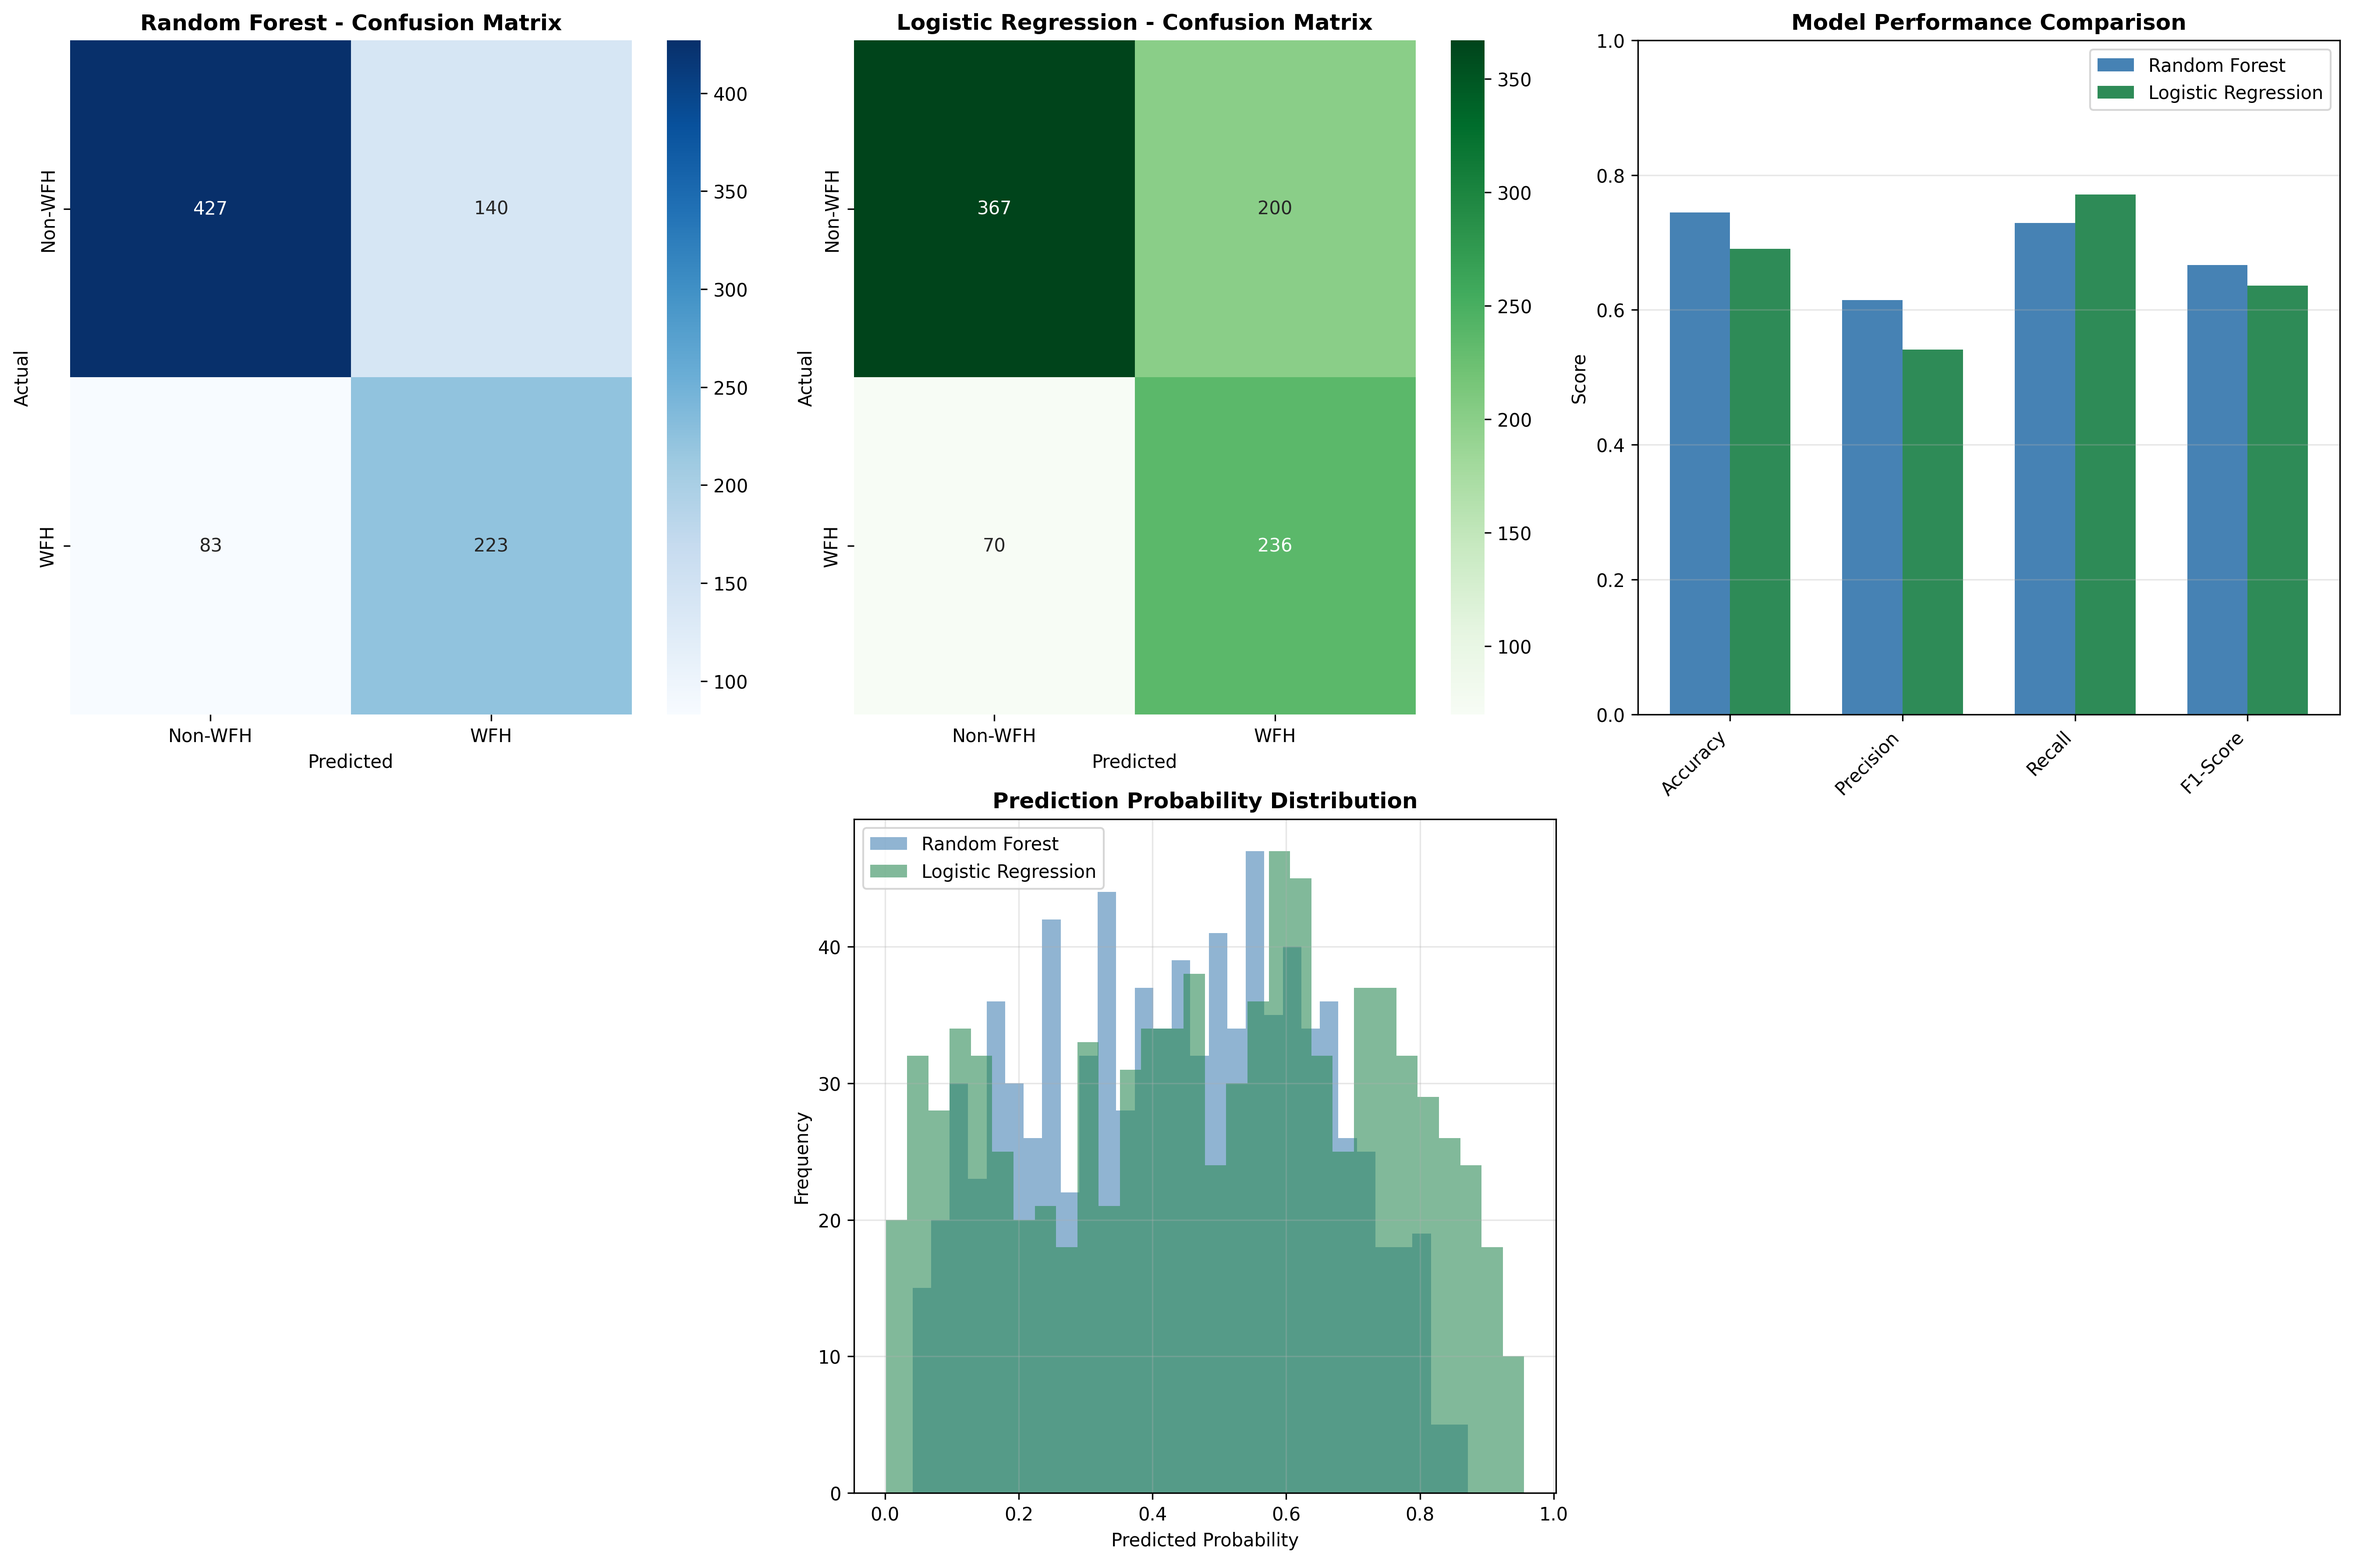
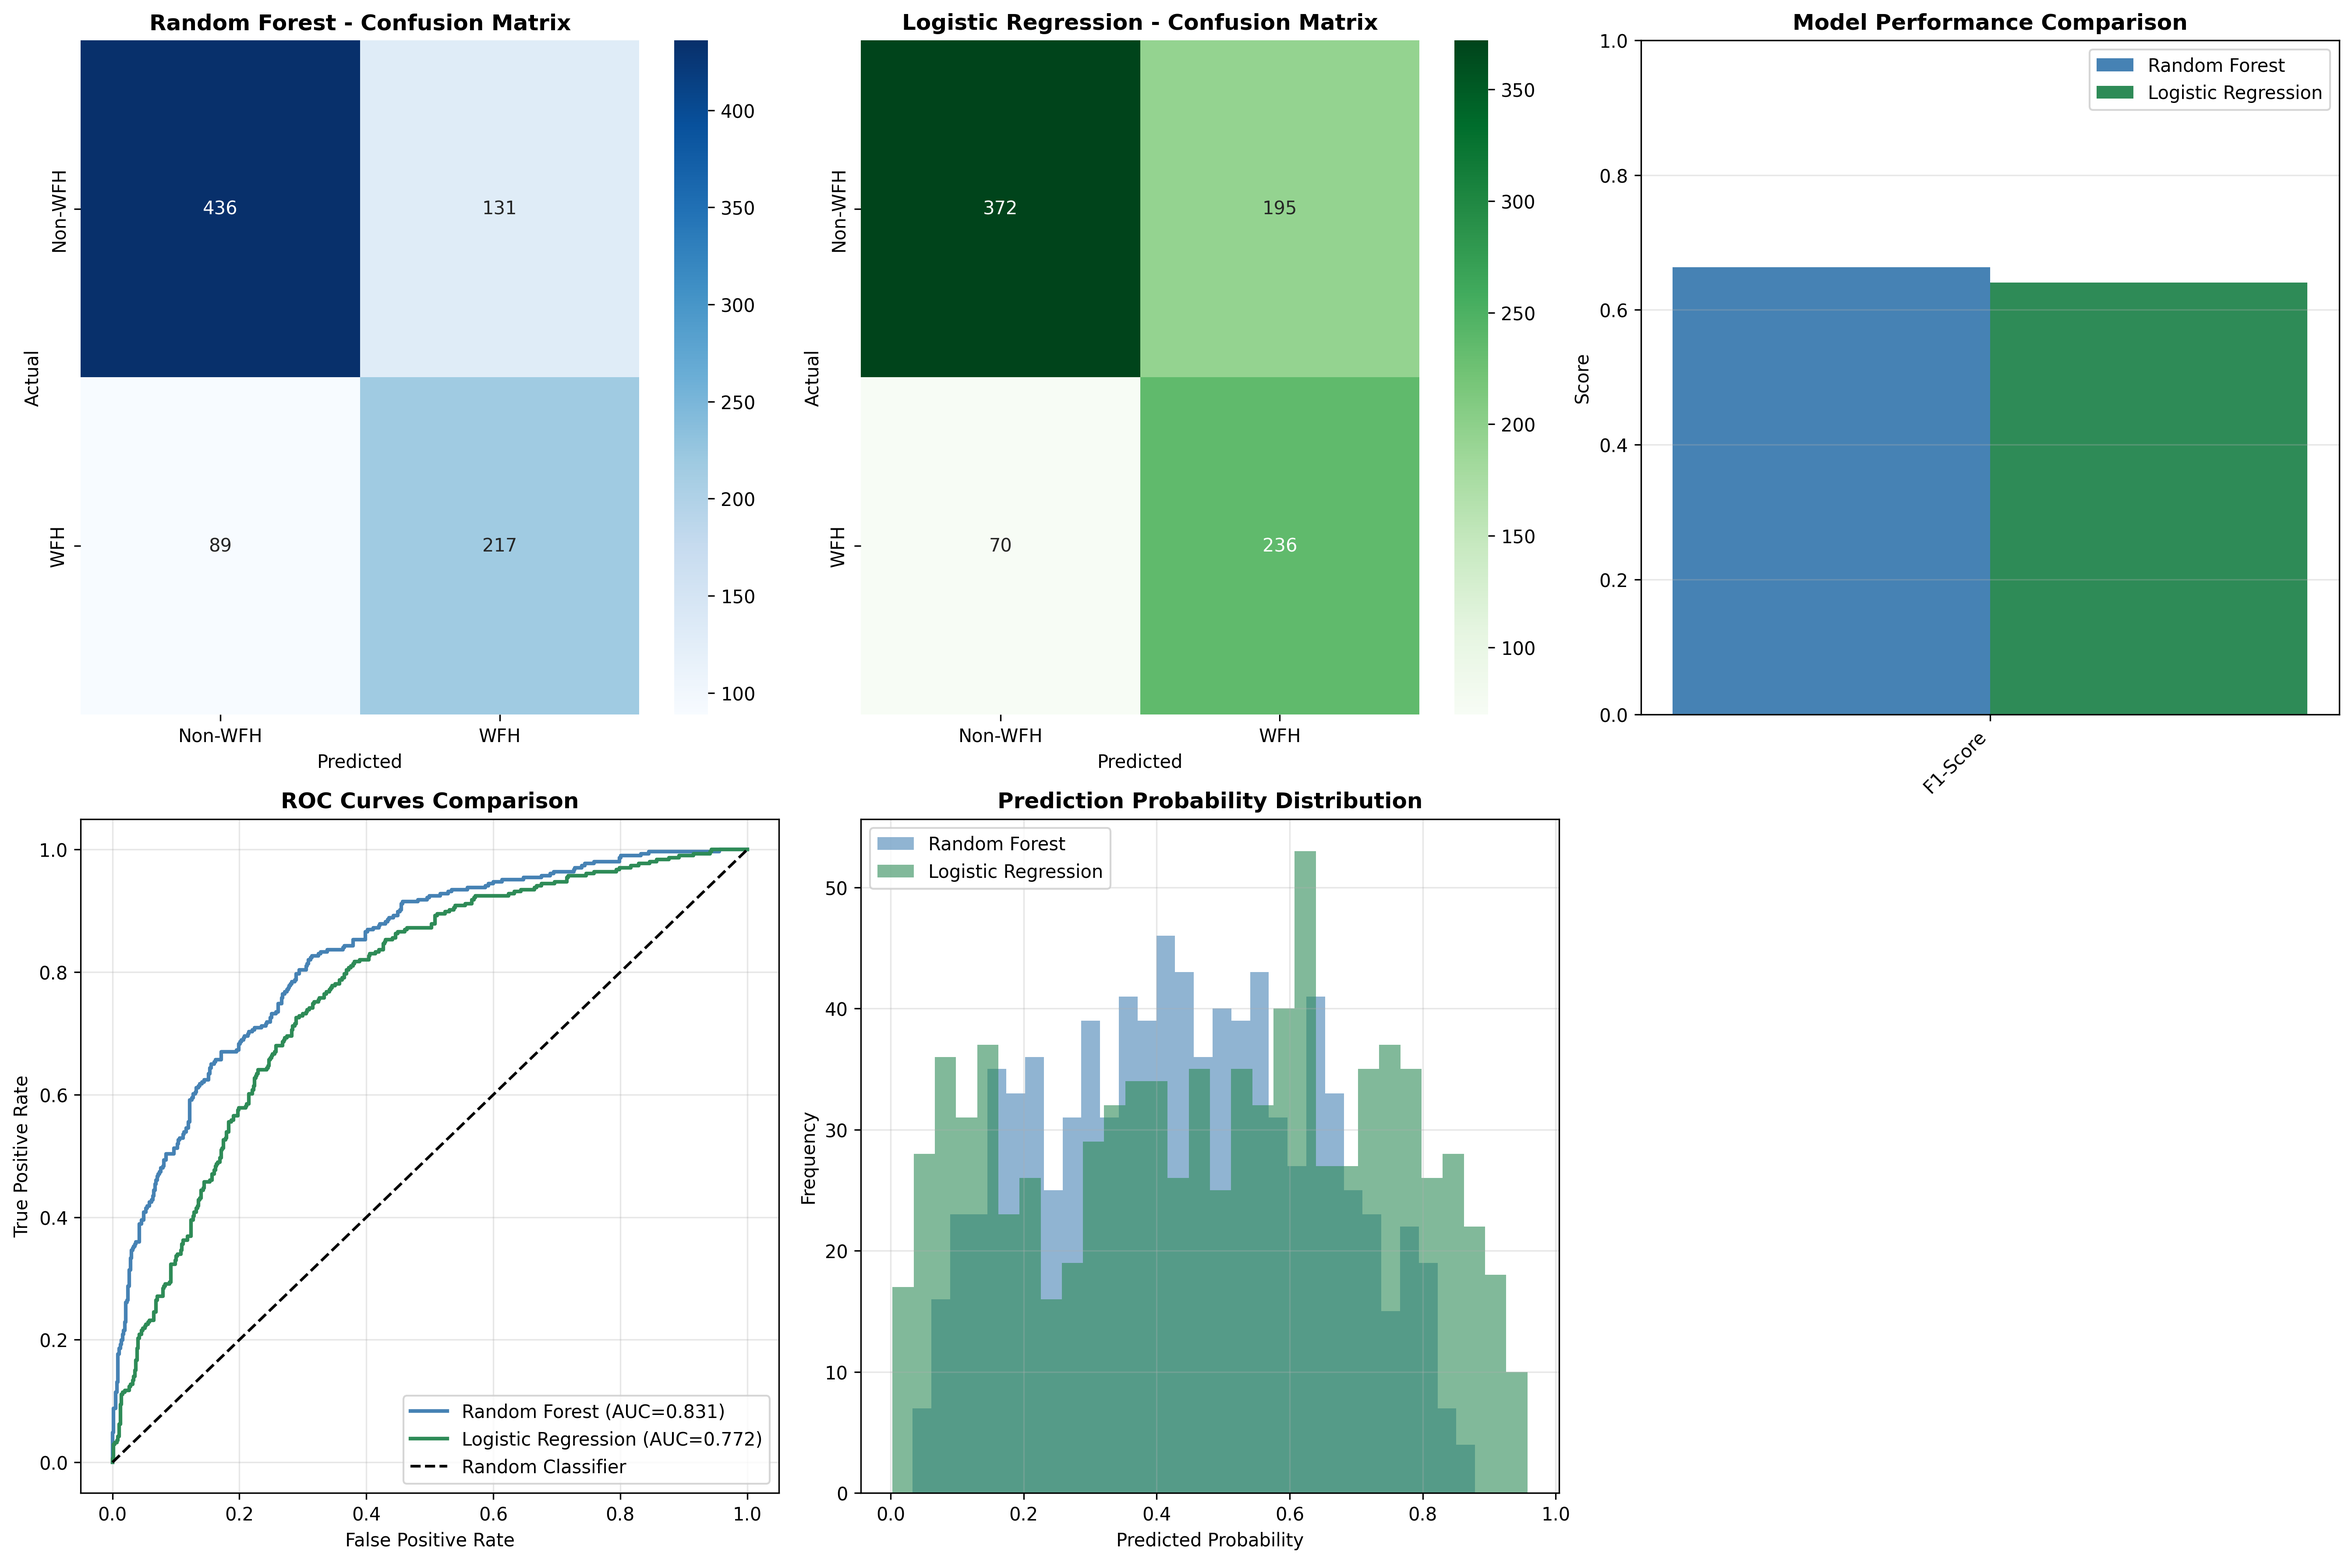
evaluation metrics selection

diff --git a/03_supervised_learning/scripts/wfh_prediction.py b/03_supervised_learning/scripts/wfh_prediction.py
@@ -19,8 +19,7 @@ from sklearn.ensemble import RandomForestClassifier
 from sklearn.linear_model import LogisticRegression
 from sklearn.preprocessing import StandardScaler, LabelEncoder
 from sklearn.metrics import (
-    confusion_matrix, classification_report, accuracy_score,
-    precision_score, recall_score, f1_score, roc_auc_score, roc_curve
+    confusion_matrix, classification_report, f1_score, roc_auc_score, roc_curve
 )
 import os
 
@@ -86,7 +85,7 @@ def create_wfh_target(person_df):
         # Use 'anywfh' as the primary target (indicates if person works from home at all)
         person_df['wfh'] = person_df['anywfh'].copy()
         
-        # Convert to binary if needed (handle different encodings)
+        # Convert to binary 
         # Encodings: Yes/No, 1/0
         if person_df['wfh'].dtype == 'object':
             # String values like 'Yes'/'No'
@@ -96,7 +95,6 @@ def create_wfh_target(person_df):
         
         # Ensure binary (0 or 1)
         person_df['wfh'] = (person_df['wfh'] > 0).astype(int)
-        
         print(f"\nUsing 'anywfh' as target variable")
         
     elif 'wfhtravday' in person_df.columns:
@@ -150,9 +148,16 @@ def prepare_features(household_df, person_df, journey_df, morning_df):
     # Start with person-level data
     df = person_df.copy()
     
-    # Identify ID columns
-    household_id_cols = ["hhid"]
-    person_id_cols = ["persid"]
+    # Identify common key columns for merging
+    # Common possibilities: 'household_id', 'person_id', 'hhid', 'persid', etc.
+    print("\nAttempting to merge datasets...")
+    
+    # Try to identify ID columns
+    household_id_cols = [col for col in household_df.columns if 'household' in col.lower() or 'hh' in col.lower()]
+    person_id_cols = [col for col in person_df.columns if 'person' in col.lower() or 'pers' in col.lower()]
+    
+    print(f"Potential household ID columns: {household_id_cols}")
+    print(f"Potential person ID columns: {person_id_cols}")
     
     # Merge with household data (adjust key names as needed)
     if household_id_cols:
@@ -161,7 +166,7 @@ def prepare_features(household_df, person_df, journey_df, morning_df):
             key_col = household_id_cols[0]
             if key_col in df.columns and key_col in household_df.columns:
                 df = df.merge(household_df, on=key_col, how='left', suffixes=('', '_hh'))
-                print(f"Merged household data on '{key_col}'")
+                print(f"✓ Merged household data on '{key_col}'")
         except Exception as e:
             print(f"Could not merge household data: {e}")
     
@@ -183,7 +188,7 @@ def prepare_features(household_df, person_df, journey_df, morning_df):
                     avg_distance.columns = [person_key, 'avg_trip_distance']
                     df = df.merge(avg_distance, on=person_key, how='left')
                     df['avg_trip_distance'] = df['avg_trip_distance'].fillna(0)
-                    print(f"Added average trip distance feature")
+                    print(f"✓ Added average trip distance feature")
         except Exception as e:
             print(f"Could not process journey data: {e}")
     
@@ -208,8 +213,8 @@ def select_features(df):
     # Separate features and target
     target = 'wfh'
     
-    # Exclude non-feature columns (IDs, dates, target)
-    exclude_keywords = ['id', 'date', 'time', 'name', target]
+    # Exclude non-feature columns 
+    exclude_keywords = ['id', target]
     
     feature_cols = [col for col in df.columns 
                    if col != target 
@@ -242,12 +247,21 @@ def select_features(df):
     print("\nEncoding categorical variables...")
     label_encoders = {}
     for col in categorical_features:
-        le = LabelEncoder()
-        df_clean[col] = le.fit_transform(df_clean[col].astype(str))
-        label_encoders[col] = le
+        try:
+            le = LabelEncoder()
+            df_clean[col] = le.fit_transform(df_clean[col].astype(str))
+            label_encoders[col] = le
+        except Exception as e:
+            print(f"Could not encode column '{col}': {e}")
+            # Drop problematic column
+            df_clean = df_clean.drop(columns=[col])
     
     # Remove any remaining rows with missing target
     df_clean = df_clean.dropna(subset=[target])
+    
+    # Check if we have enough data
+    if len(df_clean) < 100:
+        raise ValueError(f"Not enough data after cleaning: {len(df_clean)} rows. Need at least 100.")
     
     print(f"\nFinal dataset shape after cleaning: {df_clean.shape}")
     print(f"WFH distribution:")
@@ -373,9 +387,6 @@ def evaluate_model(model, X_test, y_test, model_name):
     y_pred_proba = model.predict_proba(X_test)[:, 1]
     
     cm = confusion_matrix(y_test, y_pred)
-    accuracy = accuracy_score(y_test, y_pred)
-    precision = precision_score(y_test, y_pred, zero_division=0)
-    recall = recall_score(y_test, y_pred, zero_division=0)
     f1 = f1_score(y_test, y_pred, zero_division=0)
     roc_auc = roc_auc_score(y_test, y_pred_proba)
    
@@ -387,9 +398,6 @@ def evaluate_model(model, X_test, y_test, model_name):
     print(f"   True Positives:  {cm[1,1]}")
     
     print("\n2. CLASSIFICATION METRICS:")
-    print(f"   Accuracy:  {accuracy:.4f}")
-    print(f"   Precision: {precision:.4f}")
-    print(f"   Recall:    {recall:.4f}")
     print(f"   F1-Score:  {f1:.4f}")
     print(f"   ROC-AUC:   {roc_auc:.4f}")
     
@@ -398,9 +406,6 @@ def evaluate_model(model, X_test, y_test, model_name):
     
     return {
         'confusion_matrix': cm,
-        'accuracy': accuracy,
-        'precision': precision,
-        'recall': recall,
         'f1_score': f1,
         'roc_auc': roc_auc,
         'y_pred': y_pred,
@@ -421,7 +426,6 @@ def get_output_directory():
     possible_outputs = [
         '03_supervised_learning/outputs/',  # From project root
         'outputs/',  # From 03_supervised_learning folder
-        '../outputs/',  # From scripts folder
     ]
     
     # Try to create/find the output directory
@@ -461,11 +465,9 @@ def plot_results(results_rf, results_lr, y_test):
     
     # Metrics Comparison
     ax3 = plt.subplot(2, 3, 3)
-    metrics = ['Accuracy', 'Precision', 'Recall', 'F1-Score']
-    rf_scores = [results_rf['accuracy'], results_rf['precision'], 
-                 results_rf['recall'], results_rf['f1_score']]
-    lr_scores = [results_lr['accuracy'], results_lr['precision'], 
-                 results_lr['recall'], results_lr['f1_score']]
+    metrics = ['F1-Score']
+    rf_scores = [results_rf['f1_score']]
+    lr_scores = [results_lr['f1_score']]
     
     x = np.arange(len(metrics))
     width = 0.35
@@ -479,6 +481,22 @@ def plot_results(results_rf, results_lr, y_test):
     ax3.set_ylim([0, 1])
     ax3.grid(axis='y', alpha=0.3)
     
+    # ROC Curves
+    ax4 = plt.subplot(2, 3, 4)
+    fpr_rf, tpr_rf, _ = roc_curve(y_test, results_rf['y_pred_proba'])
+    fpr_lr, tpr_lr, _ = roc_curve(y_test, results_lr['y_pred_proba'])
+    
+    ax4.plot(fpr_rf, tpr_rf, label=f"Random Forest (AUC={results_rf['roc_auc']:.3f})", 
+             color='steelblue', linewidth=2)
+    ax4.plot(fpr_lr, tpr_lr, label=f"Logistic Regression (AUC={results_lr['roc_auc']:.3f})", 
+             color='seagreen', linewidth=2)
+    ax4.plot([0, 1], [0, 1], 'k--', label='Random Classifier')
+    ax4.set_xlabel('False Positive Rate')
+    ax4.set_ylabel('True Positive Rate')
+    ax4.set_title('ROC Curves Comparison', fontsize=12, fontweight='bold')
+    ax4.legend()
+    ax4.grid(alpha=0.3)
+
     # Prediction Distribution
     ax5 = plt.subplot(2, 3, 5)
     ax5.hist(results_rf['y_pred_proba'], bins=30, alpha=0.6, label='Random Forest', color='steelblue')
@@ -572,20 +590,14 @@ def main():
     print("=" * 70)
     
     comparison_df = pd.DataFrame({
-        'Metric': ['Accuracy', 'Precision', 'Recall', 'F1-Score', 'ROC-AUC'],
+        'Metric': ['F1-Score', 'ROC-AUC'],
         'Random Forest': [
-            results_rf['accuracy'], results_rf['precision'],
-            results_rf['recall'], results_rf['f1_score'], results_rf['roc_auc']
+           results_rf['f1_score'], results_rf['roc_auc']
         ],
         'Logistic Regression': [
-            results_lr['accuracy'], results_lr['precision'],
-            results_lr['recall'], results_lr['f1_score'], results_lr['roc_auc']
+            results_lr['f1_score'], results_lr['roc_auc']
         ]
     })
-    
-    comparison_df['Difference'] = comparison_df['Logistic Regression'] - comparison_df['Random Forest']
-    print("\n", comparison_df.to_string(index=False))
-    
     
     comparison_df['Difference'] = comparison_df['Logistic Regression'] - comparison_df['Random Forest']
     print("\n", comparison_df.to_string(index=False))
